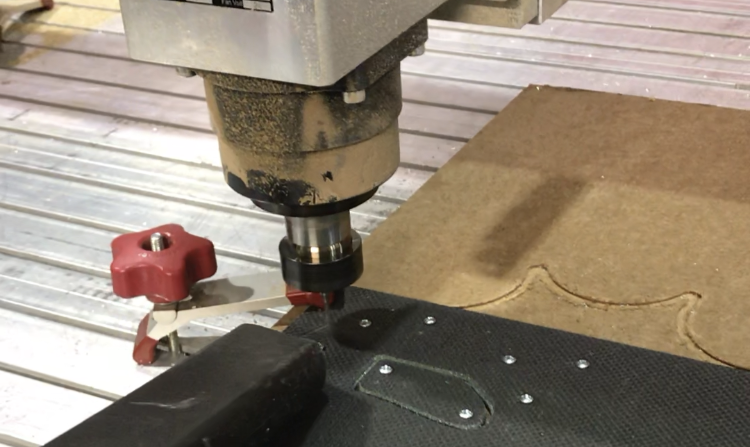
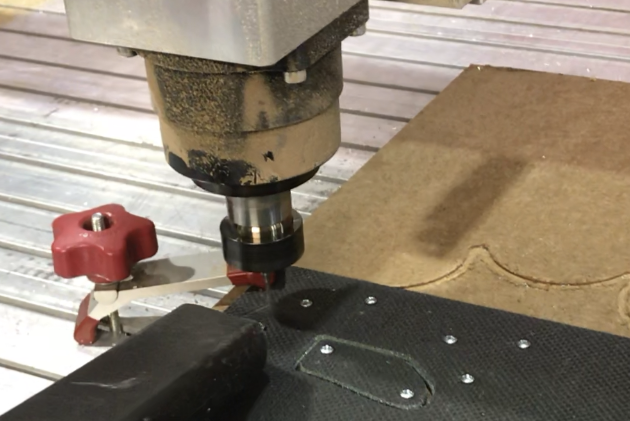
changed some pictures in gripper

diff --git a/gripper.html b/gripper.html
@@ -37,7 +37,7 @@
 
         <!-- Menu -->
           <nav id="menu">
-            
+
             <ul>
               <li><a href="index">Home</a></li>
               <li><a href="resume.pdf">Resume</a></li>
@@ -149,11 +149,11 @@
                <div class="row gtr-uniform">
                  <div class="col-6"><span class="image fit"><img src="images/gripper-cnc.jpg" alt="" /></span></div>
                  <div class="col-6"><span class="image fit"><img src="images/gripper-cnc.gif" alt="" /></span></div>
-                 <div class="col-6"><span class="image fit"><img src="images/gripper-mill.jpg" alt="" /></span></div>
+                 <div class="col-6"><span class="image fit"><img src="images/carbon-cnc.png" alt="" /></span></div>
                  <div class="col-6"><span class="image fit"><img src="images/gripper-construction.jpg" alt="" /></span></div>
                </div>
              </div>
-           <p><span class="image left"><img src="images/carbon-cnc.png" alt="" /></span>
+           <p>
              Our idea to produce the lightest gripper in the class was centered
              around the usage of carbon fiber sandwich board for the main body of the
              gripper. The use of this material posed specific challenges regarding to the
@@ -181,7 +181,7 @@
            <div class="box alt">
              <div class="row gtr-uniform">
                <div class="col-6"><span class="image fit"><img src="images/gripper-v1-left.jpg" alt="" /></span></div>
-               <div class="col-6"><span class="image fit"><img src="images/gripper-v1-right.jpg" alt="" /></span></div>
+               <div class="col-6"><span class="image fit"><img src="images/Round1Testing.gif" alt="" /></span></div>
              </div>
            </div>
            <p> For all the successes that this version represented, there were fundamental flaws in the design that would need
@@ -218,7 +218,7 @@
            <p> This weight was a significant achievement, not only for the improvement that we showed from our
              first version, but the class average was 150 grams and the next closest gripper was 40 grams.
            </p>
-           <span class="image main"><img src="images/gripper-final.jpg" alt="" /></span>
+           <span class="image main"><img src="images/gripper-top.jpg" alt="" /></span>
 
           </div>
         </div>
